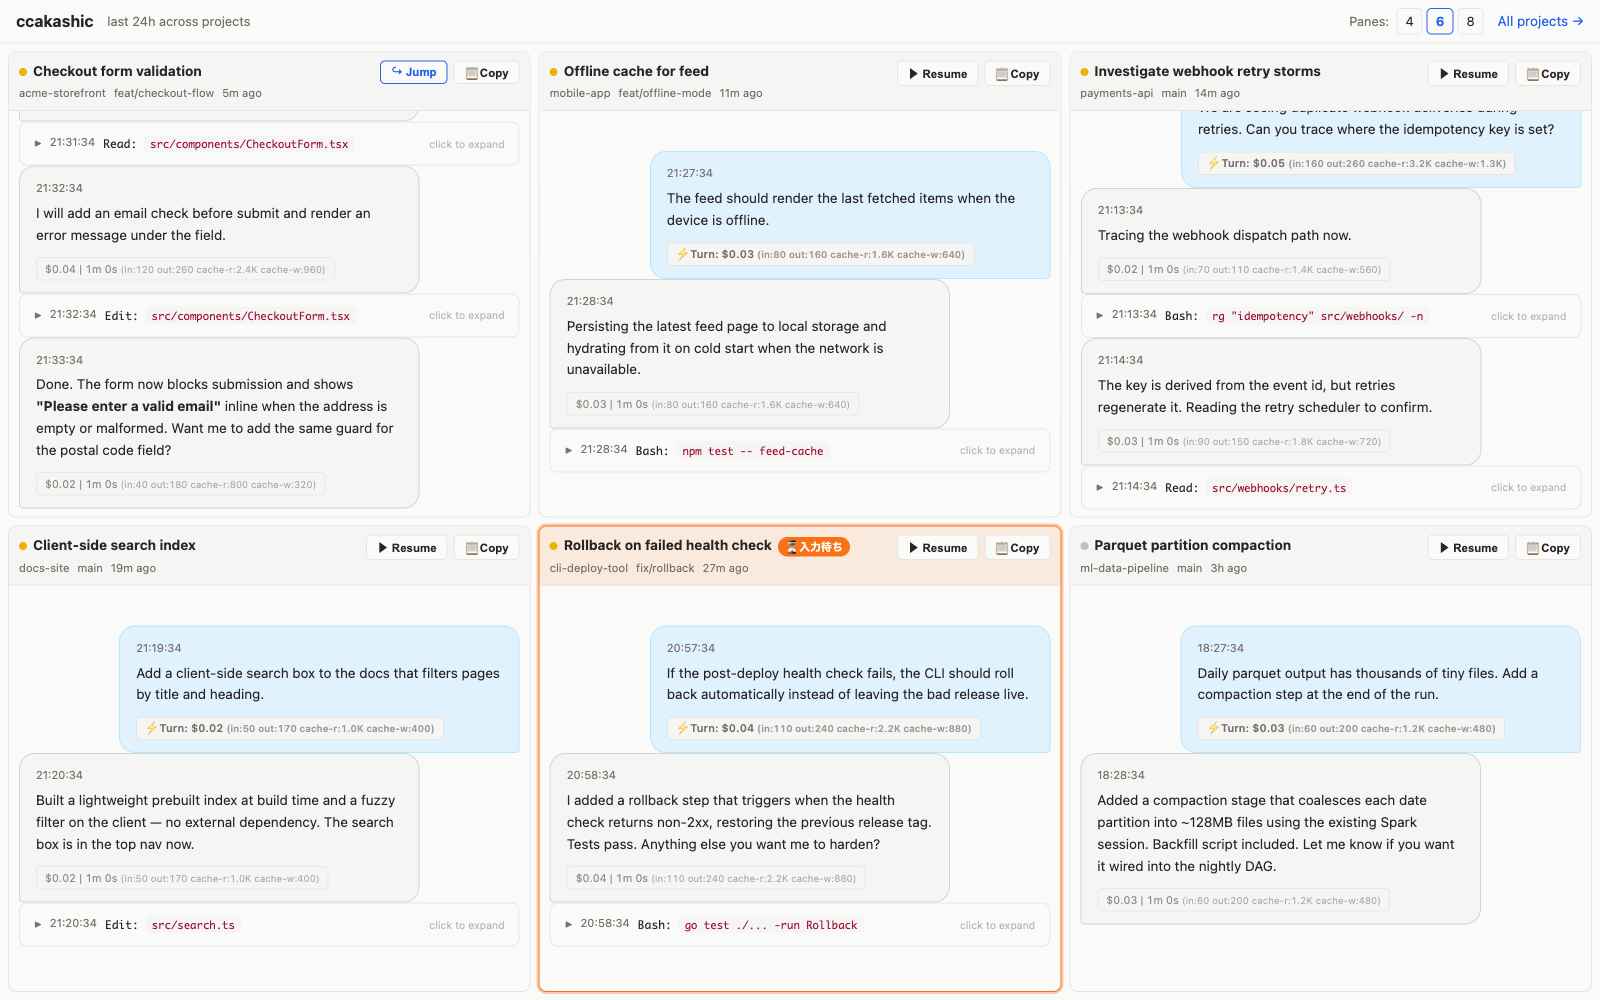
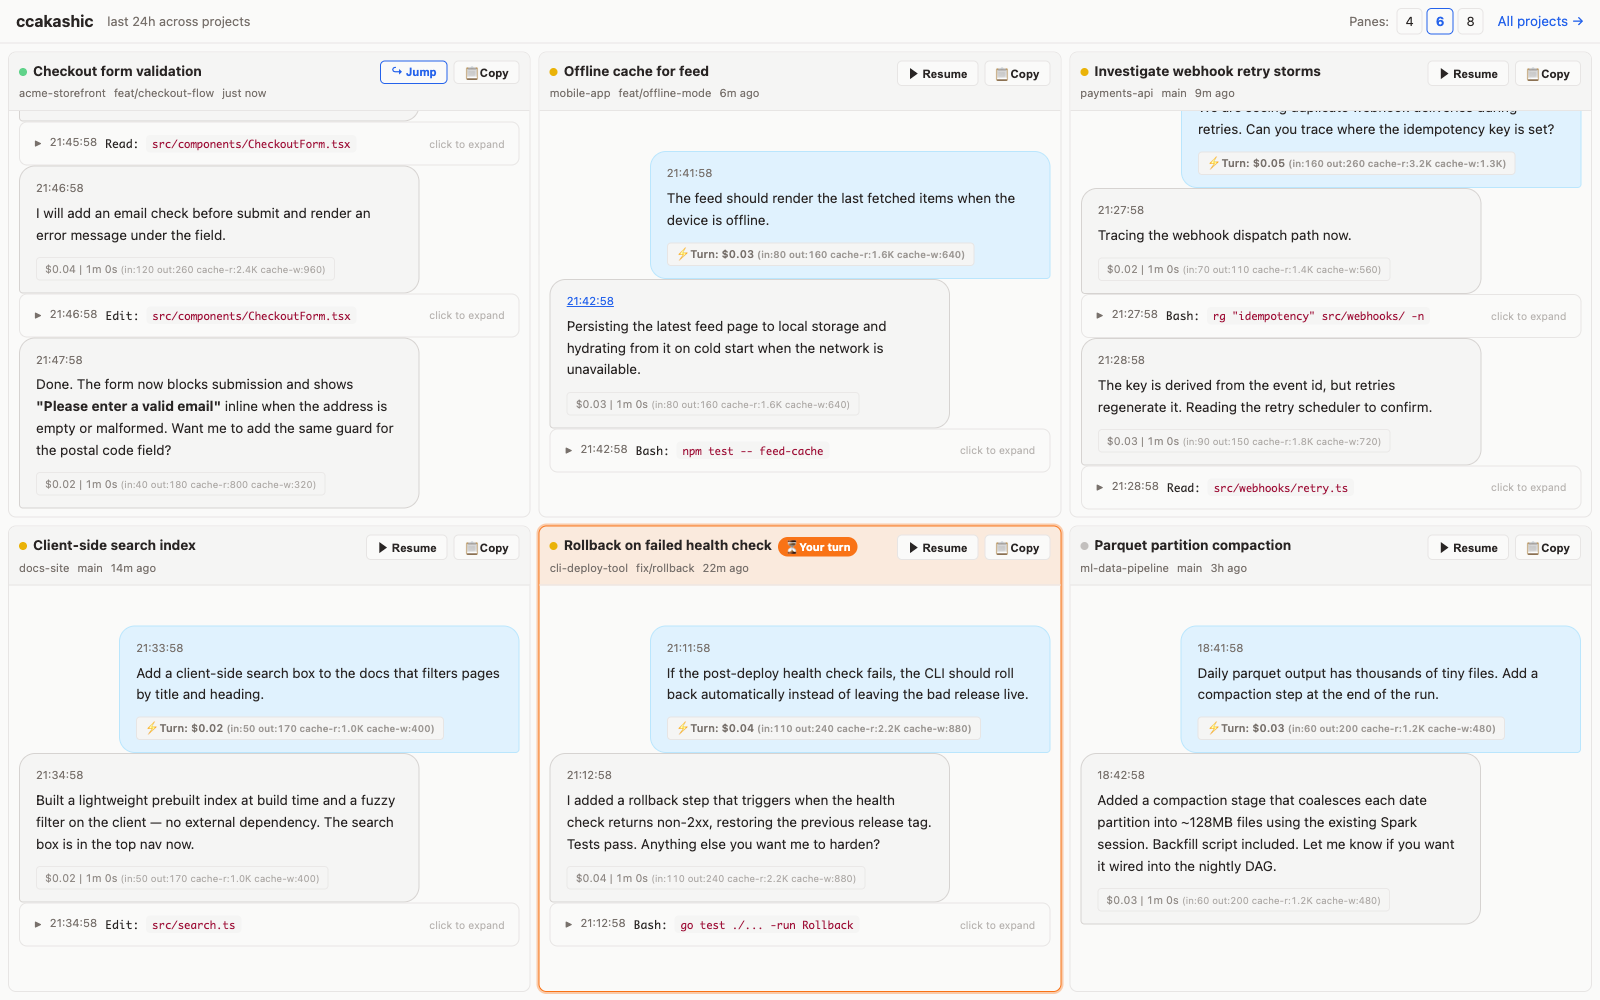
入力待ちバッジを英語化(UIの言語統一)
ダッシュボードのみ日本語だった待ちバッジを英語に統一:
- ⏳ 入力待ち → ⏳ Your turn
- 🔐 承認待ち → 🔐 Permission
サーバー側(waitBadgeHtml)・クライアント側(waitBadge)・README・
ダッシュボードのスクショを更新。

diff --git a/src/dashboard.ts b/src/dashboard.ts
@@ -67,7 +67,7 @@ export interface DashboardPane {
 
 export function waitBadgeHtml(waiting: WaitState): string {
   if (!waiting) return '';
-  const label = waiting === 'permission' ? '\u{1F510} 承認待ち' : '⏳ 入力待ち';
+  const label = waiting === 'permission' ? '\u{1F510} Permission' : '⏳ Your turn';
   return `<span class="dash-wait-badge dash-wait-${waiting}">${label}</span>`;
 }
 
@@ -293,8 +293,8 @@ function dashboardJS(): string {
   var ICON_WAIT = svgIcon('#f97316');
 
   function waitBadge(state) {
-    if (state === 'permission') return '<span class="dash-wait-badge dash-wait-permission">\u{1F510} 承認待ち</span>';
-    if (state === 'input') return '<span class="dash-wait-badge dash-wait-input">⏳ 入力待ち</span>';
+    if (state === 'permission') return '<span class="dash-wait-badge dash-wait-permission">\u{1F510} Permission</span>';
+    if (state === 'input') return '<span class="dash-wait-badge dash-wait-input">⏳ Your turn</span>';
     return '';
   }
 

diff --git a/README.md b/README.md
@@ -33,7 +33,7 @@ A local HTTP server starts and your browser opens automatically.
 ## Features
 
 - **Dashboard** — The top page shows your 4/6/8 most recently active sessions across all projects side by side, each pane an independently scrollable thread of the last 24h, with live status dots (🟢 active / 🟡 recent / ⚪ idle) refreshed by polling
-- **Waiting-for-you indicator** — Sessions cmux is notifying you about (an **unread** "Claude is waiting for your input" / "needs your permission") get an orange frame and a `⏳ 入力待ち` / `🔐 承認待ち` badge. cmux marks the notification read the moment you focus that workspace, so the highlight **self-clears** on the next poll once you open the tab — it mirrors cmux's own badge exactly. The browser tab title shows the count (`(2) ccakashic`) and the favicon turns orange, so a glance at the tab tells you how many sessions need you. (Requires cmux; covers sessions resumed through ccakashic, which are tracked in the resume map.)
+- **Waiting-for-you indicator** — Sessions cmux is notifying you about (an **unread** "Claude is waiting for your input" / "needs your permission") get an orange frame and a `⏳ Your turn` / `🔐 Permission` badge. cmux marks the notification read the moment you focus that workspace, so the highlight **self-clears** on the next poll once you open the tab — it mirrors cmux's own badge exactly. The browser tab title shows the count (`(2) ccakashic`) and the favicon turns orange, so a glance at the tab tells you how many sessions need you. (Requires cmux; covers sessions resumed through ccakashic, which are tracked in the resume map.)
 - **Fully browser-based** — Dashboard → Project list → Session list → Conversation detail
 - **Chat-style layout** — User / assistant messages in chat bubbles
 - **Collapsible tool calls** — Bash, Read, Edit, and other tool invocations collapsed by default
